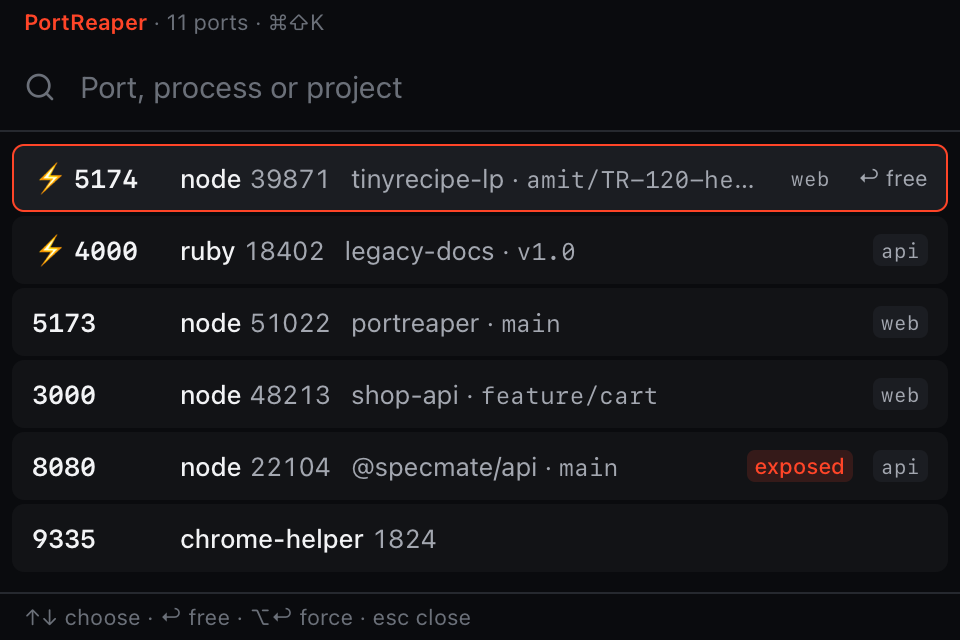
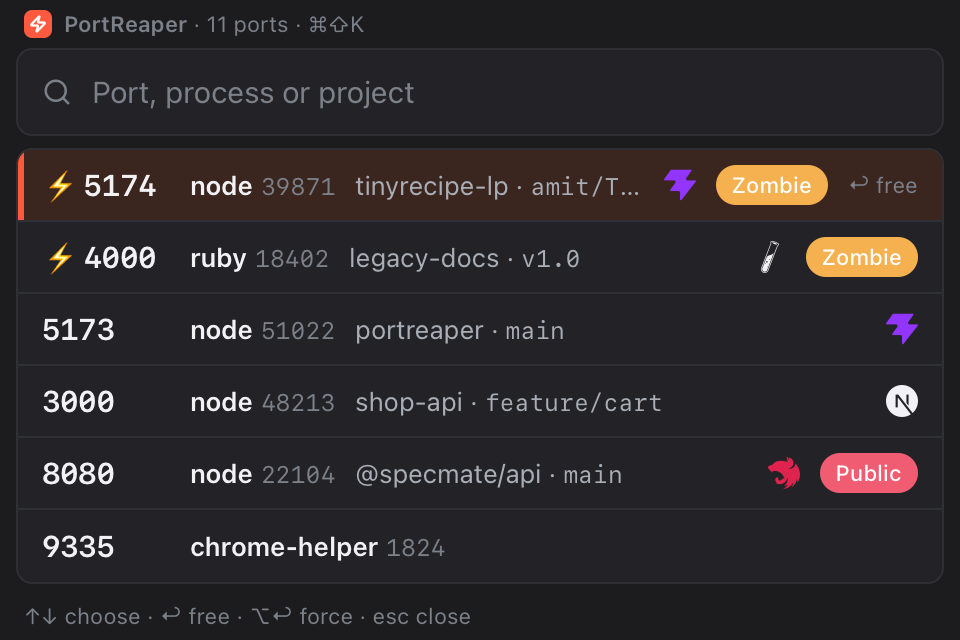
docs(quick): regenerate the strip screenshots on the Board tokens, light and dark
`pnpm screenshot -g quick` on WebKit at 2×, 480×320, the pre-selection on an empty query:
the two lost-terminal zombies first with their ⚡ and Zombie pills, the newer selected with
the brand bar and the ↩ free hint, then the dev servers newest first with their brand marks.
The tokens follow the system scheme, so the two files differ now.

Claude-Session: https://claude.ai/code/session_014oBow5NfEU2pNt3KKwmMyp

diff --git a/e2e/screenshot.spec.ts b/e2e/screenshot.spec.ts
@@ -24,10 +24,10 @@ test("the drawer → docs/screenshot-dark.png", async ({ page }) => {
   await page.screenshot({ path: "docs/screenshot-dark.png" });
 });
 
-// The Quick strip (WP-8b, WP-12) at its window size, 480×320: the pre-selection on an empty
-// query with the two lost-terminal zombies first, the newer selected, so the ⚡ and the "↩ free"
-// hint are in the picture, then the dev servers newest first. v0.2 is dark only: both schemes
-// render the same; both files stay so links to either keep working.
+// The Quick strip (WP-8b, WP-12, on the Board tokens since WP-15b) at its window size, 480×320:
+// the pre-selection on an empty query with the two lost-terminal zombies first, the newer
+// selected, so the ⚡, the Zombie pill, the brand marks and the "↩ free" hint are in the picture,
+// then the dev servers newest first. The tokens follow the system scheme, so one file per scheme.
 test.describe("quick", () => {
   test.use({ viewport: { width: 480, height: 320 } });
 
